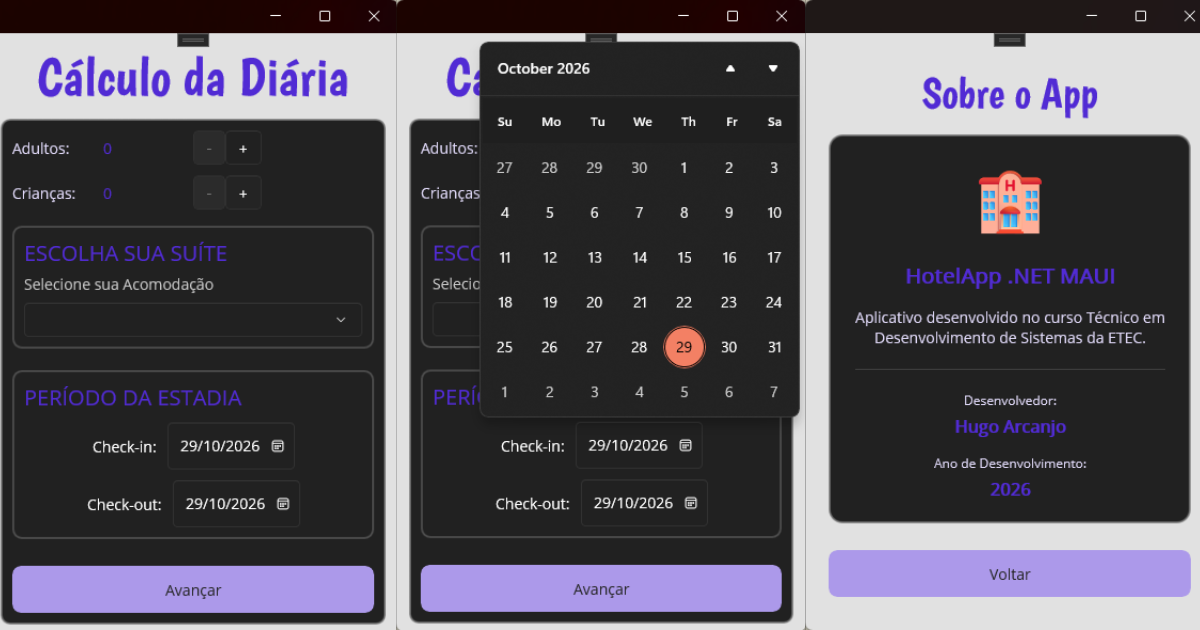
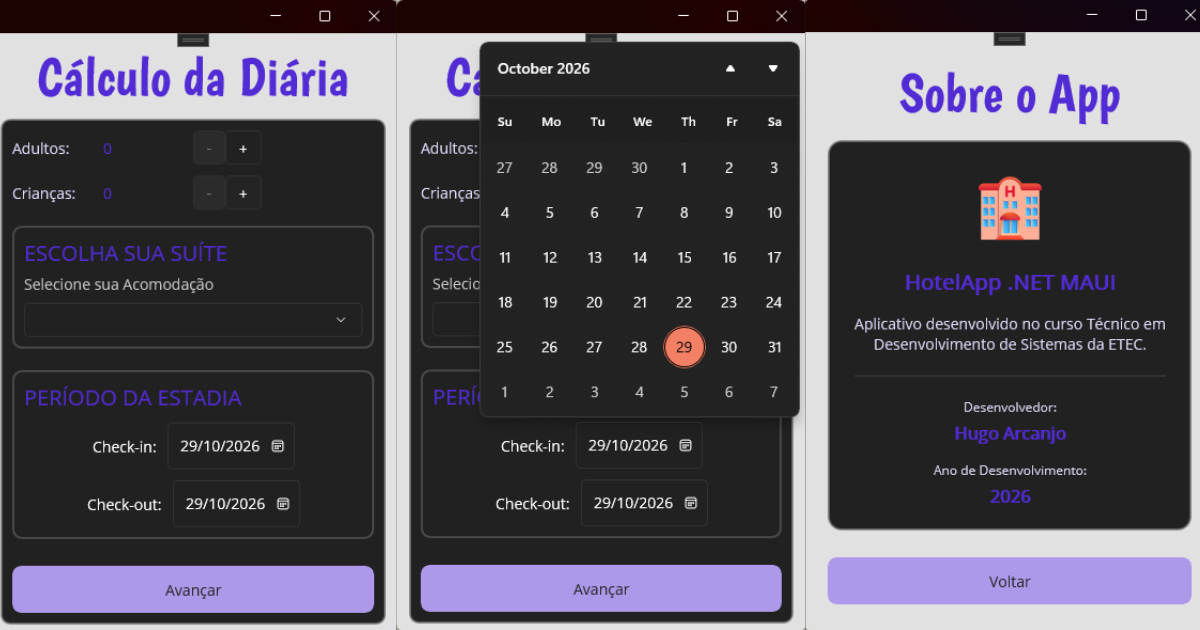
fix: about font size updated

diff --git a/MauiAppHotel/Views/Sobre.xaml b/MauiAppHotel/Views/Sobre.xaml
@@ -14,7 +14,7 @@
 
         <Label Text="Sobre o App"
                FontFamily="Boogaloo"
-               FontSize="40"
+               FontSize="50"
                HorizontalTextAlignment="Center"
                TextColor="{StaticResource Primary}" />
 

diff --git a/MauiAppHotel/App.xaml.cs b/MauiAppHotel/App.xaml.cs
@@ -11,7 +11,7 @@ namespace MauiAppHotel
 
         protected override Window CreateWindow(IActivationState? activationState)
         {
-            return new Window(new NavigationPage(new Views.ContratacaoHospedagem()))
+            return new Window(new NavigationPage(new Views.Sobre()))
             {
                 Width = 400,
                 Height = 600
